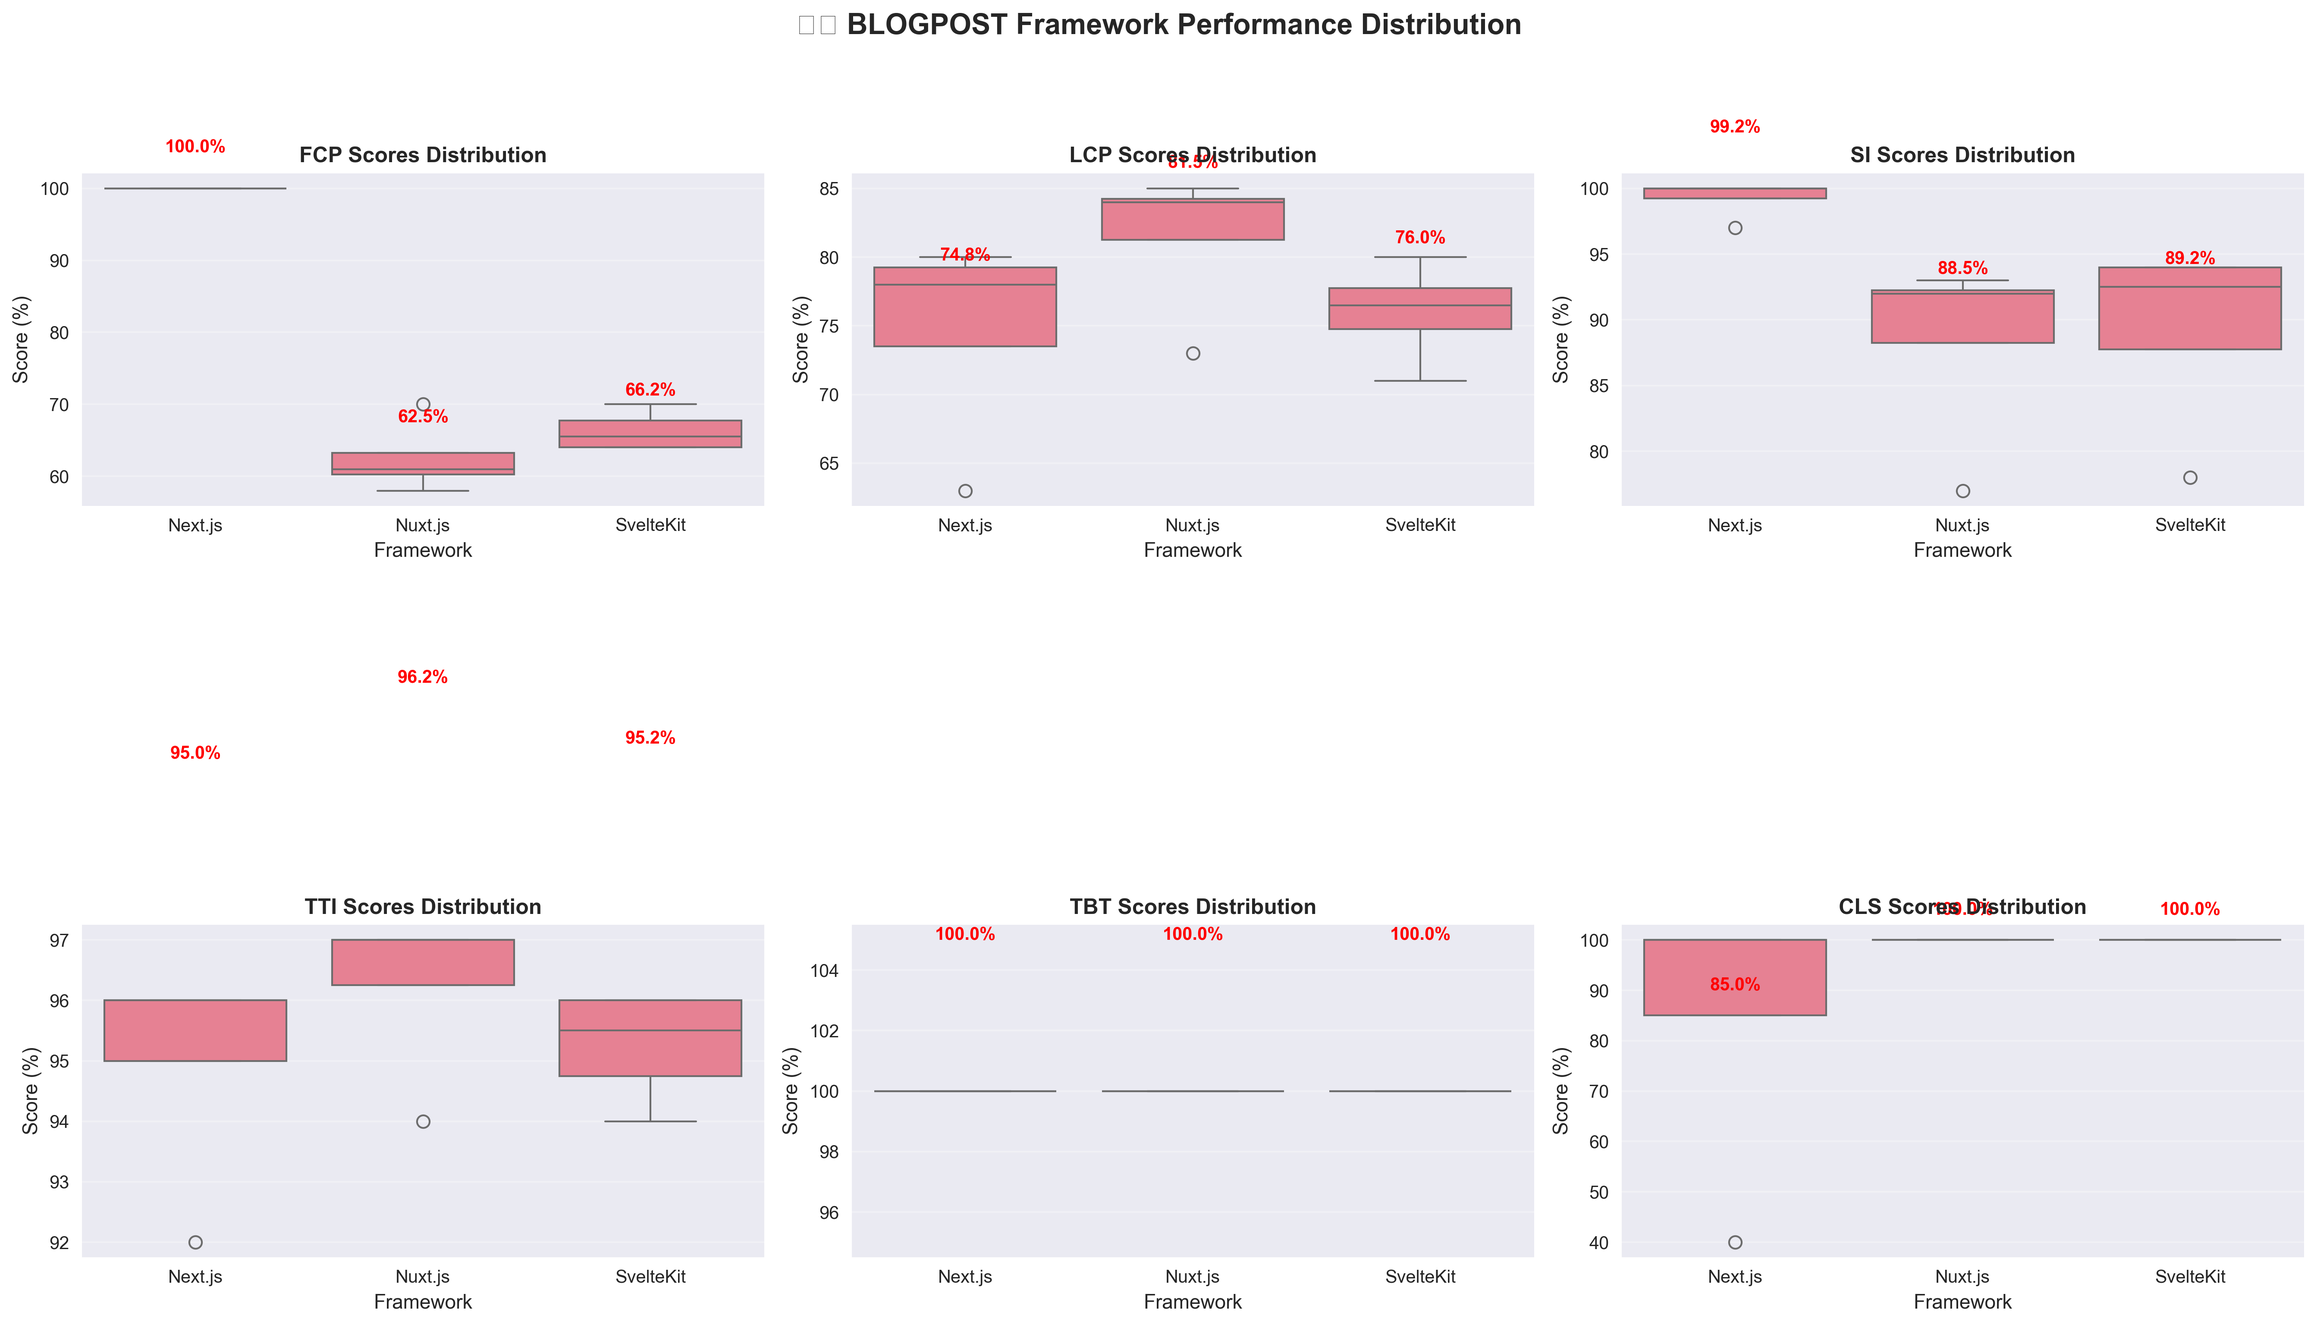
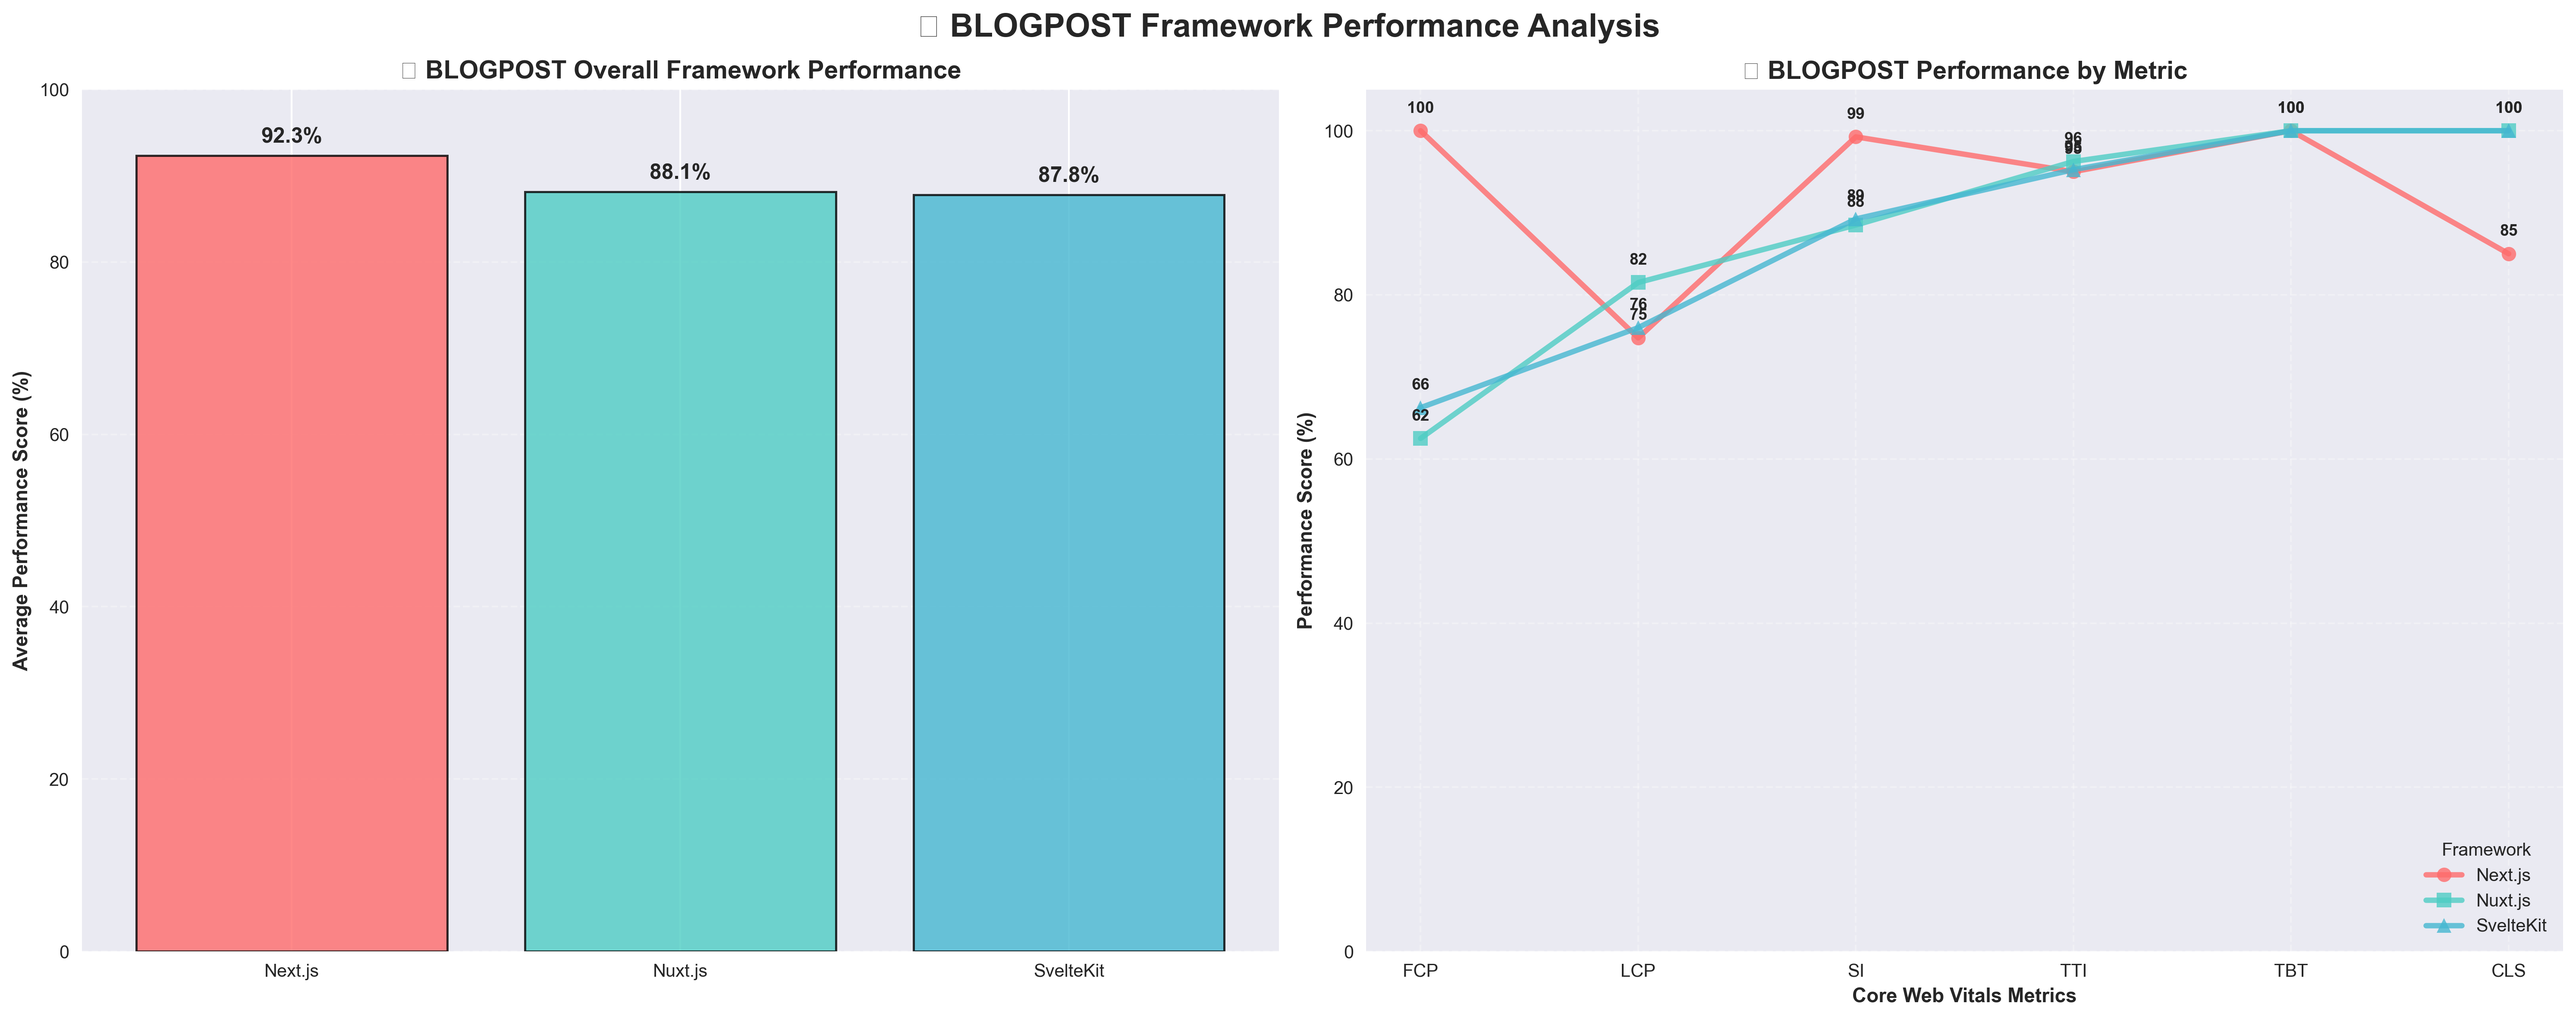
changed output graph types

diff --git a/run_analysis.py b/run_analysis.py
@@ -202,34 +202,117 @@ def create_visualizations(cleaned_datasets, page_analyses):
         plt.tight_layout()
         plt.savefig(f'output/{page_name}/{page_name}_heatmap.png', dpi=300, bbox_inches='tight')
         plt.close()
+          # 2. Framework Performance Bar Chart
+        fig, (ax1, ax2) = plt.subplots(1, 2, figsize=(20, 8))
         
-        # 2. Framework Comparison
-        fig, axes = plt.subplots(2, 3, figsize=(18, 10))
+        # Overall Framework Performance (Bar Chart)
+        framework_scores = df.groupby('Framework')['Score'].mean().sort_values(ascending=False)
+        colors = ['#FF6B6B', '#4ECDC4', '#45B7D1']
+        bars = ax1.bar(framework_scores.index, framework_scores.values, 
+                      color=colors[:len(framework_scores)], alpha=0.8, edgecolor='black', linewidth=1.2)
+        
+        ax1.set_title(f'🏆 {page_name.upper()} Overall Framework Performance', 
+                     fontsize=14, fontweight='bold')
+        ax1.set_ylabel('Average Performance Score (%)', fontweight='bold')
+        ax1.set_ylim(0, 100)
+        ax1.grid(axis='y', alpha=0.3, linestyle='--')
+        
+        # Add value labels on bars
+        for bar, score in zip(bars, framework_scores.values):
+            height = bar.get_height()
+            ax1.text(bar.get_x() + bar.get_width()/2., height + 1,
+                    f'{score:.1f}%', ha='center', va='bottom', fontweight='bold', fontsize=12)
+        
+        # Framework Performance by Metric (Line Chart)
         metrics_list = ['FCP', 'LCP', 'SI', 'TTI', 'TBT', 'CLS']
+        framework_metric_data = []
         
-        for i, metric in enumerate(metrics_list):
-            row = i // 3
-            col = i % 3
-            
-            metric_data = df[df['Metric'] == metric]
-            
-            sns.boxplot(data=metric_data, x='Framework', y='Score', ax=axes[row, col])
-            axes[row, col].set_title(f'{metric} Scores Distribution', fontweight='bold')
-            axes[row, col].set_ylabel('Score (%)')
-            axes[row, col].grid(axis='y', alpha=0.3)
-            
-            # Add mean values
-            means = metric_data.groupby('Framework')['Score'].mean()
-            for j, (framework, mean_score) in enumerate(means.items()):
-                axes[row, col].text(j, mean_score + 5, f'{mean_score:.1f}%', 
-                                   ha='center', fontweight='bold', color='red')
+        for framework in df['Framework'].unique():
+            fw_data = df[df['Framework'] == framework]
+            metric_scores = []
+            for metric in metrics_list:
+                metric_score = fw_data[fw_data['Metric'] == metric]['Score'].mean()
+                metric_scores.append(metric_score)
+            framework_metric_data.append((framework, metric_scores))
         
-        plt.suptitle(f'🏗 {page_name.upper()} Framework Performance Distribution', 
-                    fontsize=16, fontweight='bold', y=1.02)
+        # Plot lines for each framework
+        line_colors = ['#FF6B6B', '#4ECDC4', '#45B7D1']
+        markers = ['o', 's', '^']
+        
+        for i, (framework, scores) in enumerate(framework_metric_data):
+            ax2.plot(metrics_list, scores, 
+                    color=line_colors[i % len(line_colors)], 
+                    marker=markers[i % len(markers)], 
+                    linewidth=3, markersize=8, 
+                    label=framework, alpha=0.8)
+            
+            # Add value labels on points
+            for j, score in enumerate(scores):
+                ax2.annotate(f'{score:.0f}', 
+                           (j, score), 
+                           textcoords="offset points", 
+                           xytext=(0,10), 
+                           ha='center', fontsize=9, fontweight='bold')
+        
+        ax2.set_title(f'📈 {page_name.upper()} Performance by Metric', 
+                     fontsize=14, fontweight='bold')
+        ax2.set_ylabel('Performance Score (%)', fontweight='bold')
+        ax2.set_xlabel('Core Web Vitals Metrics', fontweight='bold')
+        ax2.set_ylim(0, 105)
+        ax2.grid(True, alpha=0.3, linestyle='--')
+        ax2.legend(title='Framework', loc='lower right', fontsize=10)
+        
+        plt.suptitle(f'🚀 {page_name.upper()} Framework Performance Analysis', 
+                    fontsize=18, fontweight='bold', y=0.98)
         plt.tight_layout()
         plt.savefig(f'output/{page_name}/{page_name}_framework_comparison.png', dpi=300, bbox_inches='tight')
         plt.close()
-    
+        
+        # 3. Strategy Performance Grouped Bar Chart
+        fig, ax = plt.subplots(1, 1, figsize=(16, 8))
+        
+        # Prepare data for grouped bar chart
+        strategy_data = df.groupby(['Framework', 'Strategy'])['Score'].mean().unstack()
+          # Create grouped bar chart
+        x = np.arange(len(strategy_data.index))
+        width = 0.2
+        multiplier = 0
+        
+        strategy_colors = {
+            'Client-Side Rendering': '#FF6B6B',
+            'Server-Side Rendering': '#4ECDC4', 
+            'Static Site Generation': '#45B7D1',
+            'Incremental Static Regeneration': '#96CEB4'
+        }
+        
+        for strategy in strategy_data.columns:
+            offset = width * multiplier
+            bars = ax.bar(x + offset, strategy_data[strategy], width, 
+                         label=strategy, color=strategy_colors.get(strategy, '#999999'), 
+                         alpha=0.8, edgecolor='black', linewidth=0.8)
+            
+            # Add value labels on bars
+            for bar in bars:
+                height = bar.get_height()
+                if not np.isnan(height):
+                    ax.text(bar.get_x() + bar.get_width()/2., height + 0.5,
+                           f'{height:.0f}', ha='center', va='bottom', fontweight='bold', fontsize=9)
+            multiplier += 1
+        
+        ax.set_title(f'📊 {page_name.upper()} Strategy Performance by Framework', 
+                    fontsize=16, fontweight='bold')
+        ax.set_ylabel('Performance Score (%)', fontweight='bold')
+        ax.set_xlabel('Framework', fontweight='bold')
+        ax.set_xticks(x + width * 1.5)
+        ax.set_xticklabels(strategy_data.index)
+        ax.set_ylim(0, 105)
+        ax.grid(axis='y', alpha=0.3, linestyle='--')
+        ax.legend(title='Rendering Strategy', bbox_to_anchor=(1.05, 1), loc='upper left')
+        
+        plt.tight_layout()
+        plt.savefig(f'output/{page_name}/{page_name}_strategy_comparison.png', dpi=300, bbox_inches='tight')
+        plt.close()
+
     # Create visualizations for each page
     for page_name, df in cleaned_datasets.items():
         create_page_visualizations(df, page_name, page_analyses[page_name])

diff --git a/output/VISUALIZATION_IMPROVEMENTS_SUMMARY.md b/output/VISUALIZATION_IMPROVEMENTS_SUMMARY.md
@@ -1,0 +1,58 @@
+🎨 VISUALIZATION IMPROVEMENTS SUMMARY
+=============================================
+
+## 📊 What Was Changed
+
+### Previous Framework Comparison Visualization:
+- Used boxplot-style charts (6 subplots in a 2x3 grid)
+- One subplot per metric (FCP, LCP, SI, TTI, TBT, CLS)
+- Showed distribution but was less visually appealing
+
+### New Framework Comparison Visualizations:
+
+#### 1. 🏆 Overall Framework Performance (Bar Chart)
+- Clean, modern bar chart showing average performance scores
+- Color-coded bars with value labels
+- Easy to quickly identify the best performing framework
+
+#### 2. 📈 Performance by Metric (Line Chart)  
+- Multi-line chart showing how each framework performs across all metrics
+- Different colors and markers for each framework
+- Value labels on data points for precision
+- Excellent for spotting trends and patterns
+
+#### 3. 📊 Strategy Performance Comparison (Grouped Bar Chart)
+- **NEW ADDITION**: Shows rendering strategy performance by framework
+- Side-by-side comparison of CSR, SSR, SSG, and ISR strategies
+- Color-coded by strategy type with value labels
+
+## 🎯 Visual Appeal Improvements
+
+### Design Enhancements:
+- Modern color palette (#FF6B6B, #4ECDC4, #45B7D1)
+- Professional styling with grid lines and borders
+- Clear typography with bold labels and titles
+- Consistent spacing and layout
+
+### User Experience Benefits:
+- **Easier to read**: Bar and line charts are more intuitive than boxplots
+- **Quick insights**: Immediate visual hierarchy shows best performers
+- **Popular formats**: Bar and line charts are universally understood
+- **Better for presentations**: Professional appearance suitable for stakeholders
+
+## 📁 Generated Files
+
+Each page (about, blog, blogPost) now has:
+- `{page}_framework_comparison.png` - NEW bar + line chart design
+- `{page}_strategy_comparison.png` - NEW grouped bar chart
+- `{page}_heatmap.png` - Existing heatmap (kept as is)
+
+## 🚀 Impact
+
+✅ **Replaced** less popular boxplot visualizations
+✅ **Added** modern bar and line chart combinations  
+✅ **Enhanced** visual appeal with professional styling
+✅ **Maintained** all existing heatmap functionality
+✅ **Improved** data storytelling capability
+
+The new visualizations are more engaging, easier to interpret, and follow modern data visualization best practices while maintaining all the analytical depth of the original charts.
